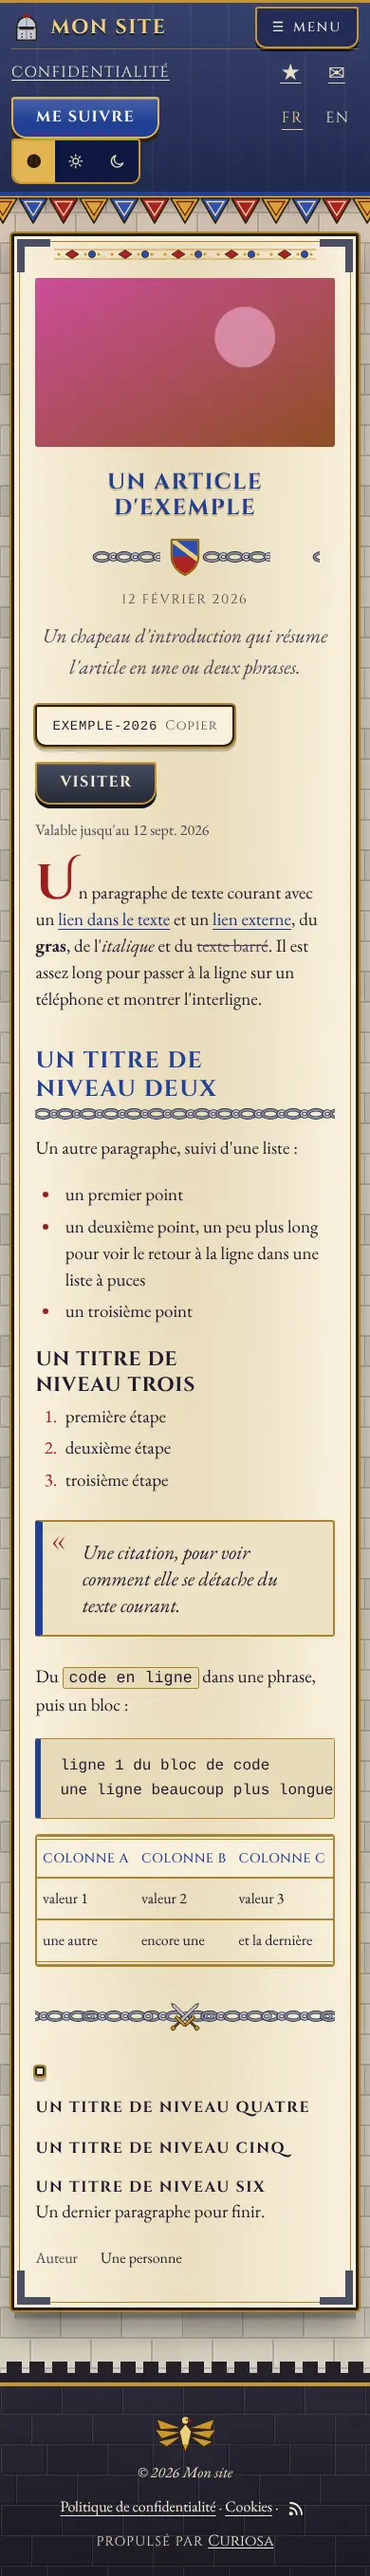
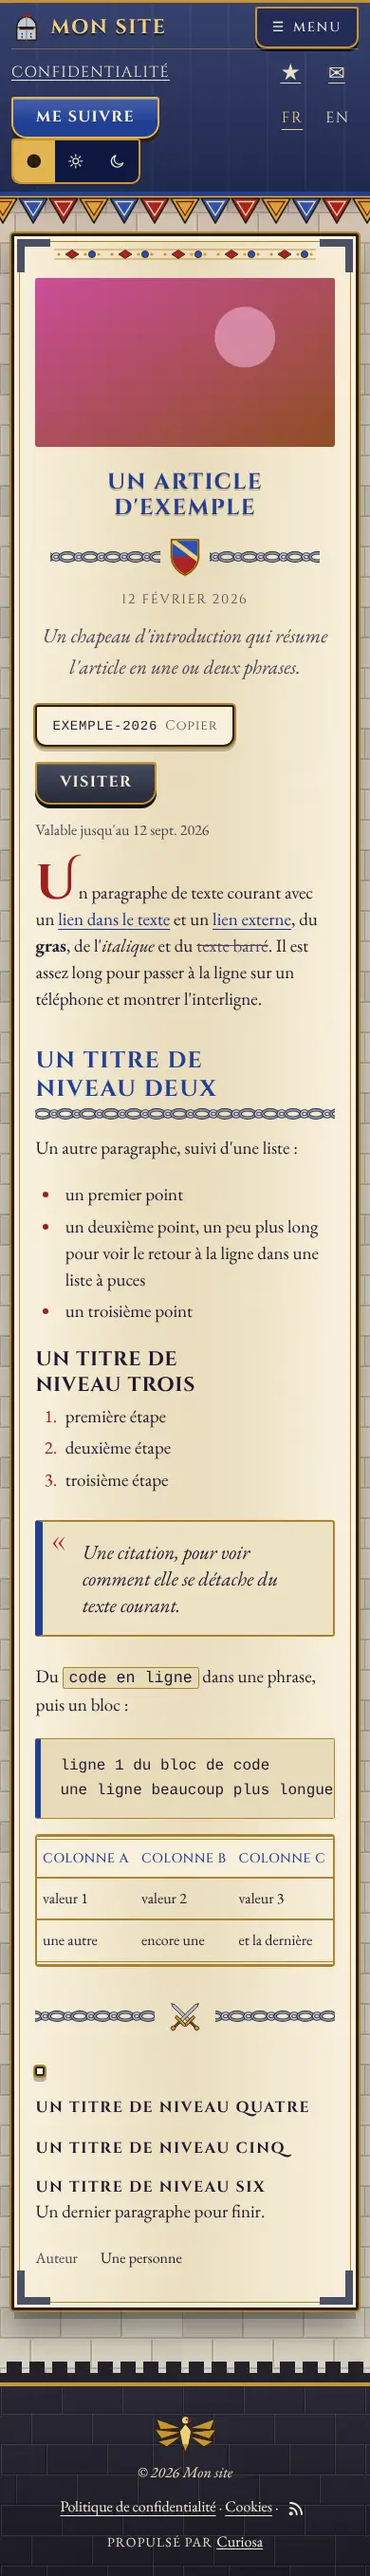
Féodal : le mot Curiosa ne reçoit plus la police du skin (famille et taille du crédit retirées), chaîne du titre sans fragment, captures et aperçus rafraîchis
Claude-Session: https://claude.ai/code/session_01ESirMuS3Ser2FpEY9j55tg

diff --git a/skins/feodal/skin.css b/skins/feodal/skin.css
@@ -288,9 +288,9 @@
   margin: 0.9rem auto 0;
   background:
     url(skin:images/ecu.svg) center / 2.1rem 2.7rem no-repeat,
-    url(skin:images/chaine.svg) left center / 24px 12px repeat-x,
-    linear-gradient(transparent, transparent);
-  background-size: 2.1rem 2.7rem, calc(50% - 1.6rem) 12px, auto;
+    url(skin:images/chaine-longue.svg) left center / 240px 12px no-repeat,
+    url(skin:images/chaine-longue.svg) right center / 240px 12px no-repeat;
+  background-size: 2.1rem 2.7rem, calc(50% - 1.6rem) 12px, calc(50% - 1.6rem) 12px;
 }
 [data-skin-part="heading"][data-level="2"] {
   font-size: var(--sk-text-xl);
@@ -365,8 +365,8 @@
   margin-block: 2rem;
   background:
     url(skin:images/epees.svg) center / 2.6rem 2.6rem no-repeat,
-    url(skin:images/chaine.svg) left center / 24px 12px repeat-x,
-    url(skin:images/chaine.svg) right center / 24px 12px repeat-x;
+    url(skin:images/chaine-longue.svg) left center / 240px 12px no-repeat,
+    url(skin:images/chaine-longue.svg) right center / 240px 12px no-repeat;
   background-size: 2.6rem 2.6rem, calc(50% - 2rem) 12px, calc(50% - 2rem) 12px;
 }
 [data-skin-part="code"] {
@@ -673,7 +673,7 @@
 [data-skin-part="footer-link"] { color: #f8efd6; text-decoration: underline; text-underline-offset: 0.25em; text-decoration-thickness: 1px; display: inline-flex; align-items: center; min-height: var(--sk-target); }
 [data-skin-part="footer-link"]:hover, [data-skin-part="credit"] a:hover { color: #f0cf7a; }
 /* Le nom « Curiosa » garde TOUJOURS sa police, sa graisse, sa casse et son espacement de marque : le skin habille « Propulsé par », jamais le mot. */
-[data-skin-part="credit"] { font-family: var(--sk-font-heading); font-size: var(--sk-text-xs); letter-spacing: 0.08em; text-transform: uppercase; color: #eadfc0; }
+[data-skin-part="credit"] { letter-spacing: 0.08em; text-transform: uppercase; color: #eadfc0; }
 [data-skin-part="credit"] a { text-transform: none; letter-spacing: normal; word-spacing: normal; color: #f8efd6; }
 
 /* ───── Pièces que le skin de base habillait seul ───── */
